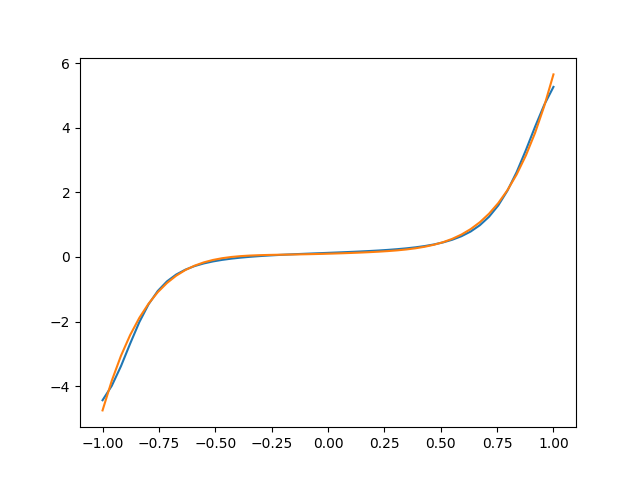
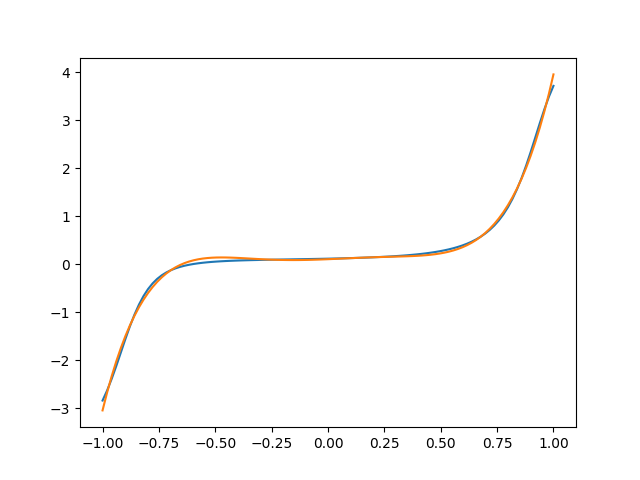
Ran neural net for 1000 iterations

diff --git a/2024-08-11-genetic-algorithm/neuralnet.py b/2024-08-11-genetic-algorithm/neuralnet.py
@@ -149,12 +149,12 @@ class Generation:
     return RSS / len(self.nets)
 
 net_size = [2, 5, 5, 5, 5, 5, 2]
-points = 50
+points = 100
 domain = [-1, 1]
-iterations = 150
+iterations = 1000
 child_nets = 50
 parent_nets = 5
-coefficients = [0.1, 0.2, 0.3, 0, 0.05, 5]
+coefficients = [0.1, 0.2, 0.3, -1.7, 0.05, 5]
 
 weights = generate_weights(net_size)
 parent_net = NeuralNet(weights)

diff --git a/2024-08-11-genetic-algorithm/main.py b/2024-08-11-genetic-algorithm/main.py
@@ -22,4 +22,4 @@ for generation_num in range(100):
 plot_ground_coefficients(coefficients, start_x, end_x)
 
 
-plt.savefig('plot.png')
+plt.savefig('basic_fitting.png')
